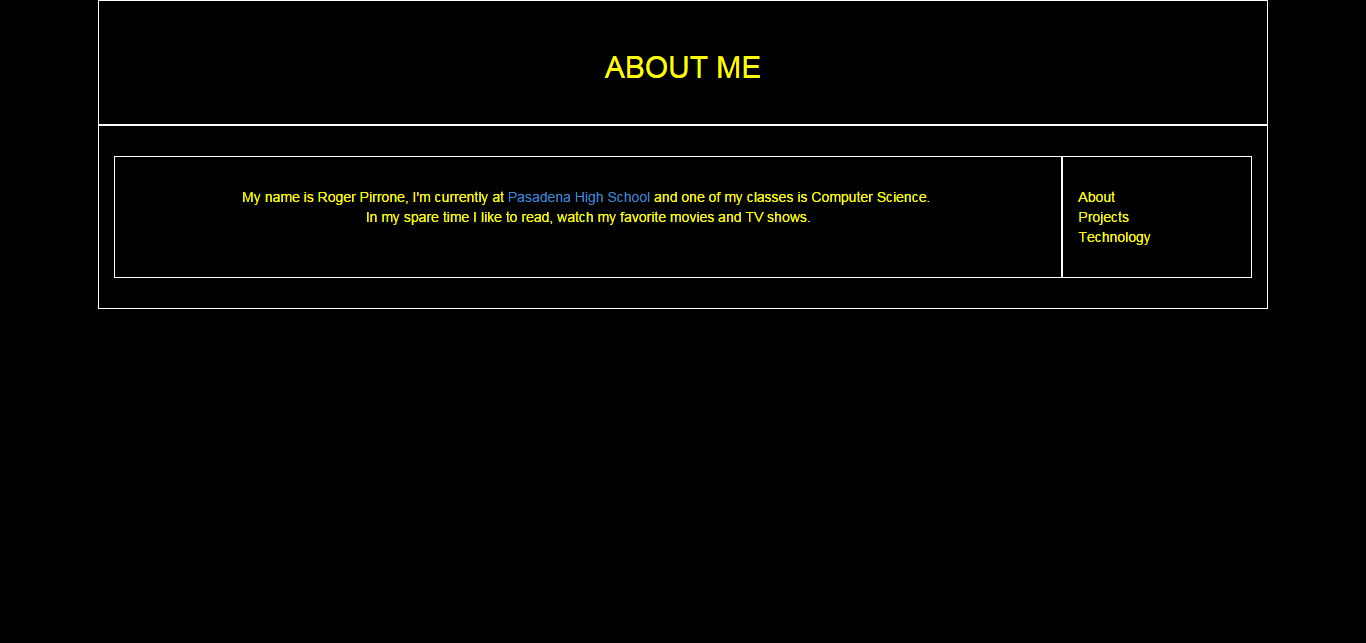
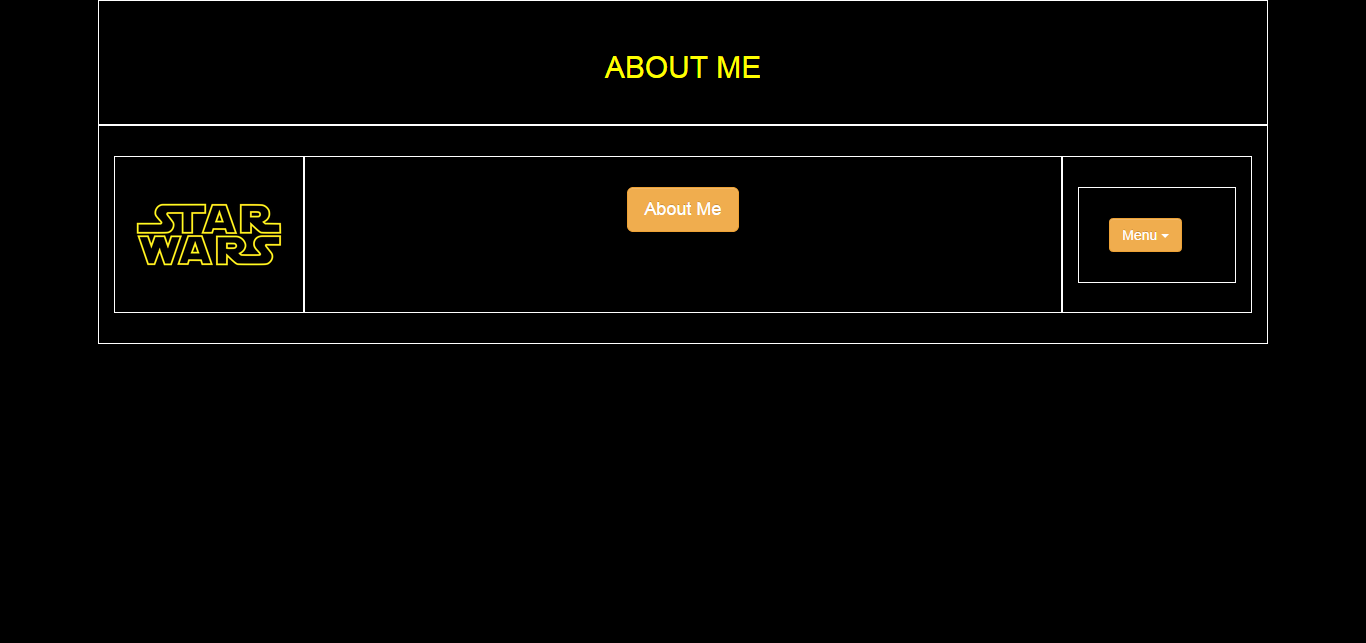
Cleaned up code, added comments, added project descriptions did some advanced features and fixed colors of modal.

diff --git a/public_html/index.html b/public_html/index.html
@@ -1,5 +1,6 @@
 <html>
     <head>
+        <!--The following code in <head> calls upon the css bootstrap and custom-style files.-->
         <title>Portfolio-Home</title>
         <meta charset="UTF-8">
         <meta name="viewport" content="width=device-width, initial-scale=1.0">
@@ -7,53 +8,61 @@
         <link type="text/css" rel="stylesheet" href="css/bootstrap.css">
         <link type="text/css" rel="stylesheet" href="css/custom-style.css">
     </head>
-    <body>    
+    <body>
+        <!--This code calls upon the container which is part of bootstrap.-->
         <div class="container">
             <h2>ABOUT ME</h2>
-        </div>    
+        </div>
+            <!--This code calls upon the container which is part of bootstrap.-->
             <div class="container">
                 <div class="col-xs-2">
-                    <img class="img-responsive" src="http://upload.wikimedia.org/wikipedia/commons/thumb/6/6c/Star_Wars_Logo.svg/1280px-Star_Wars_Logo.svg.png">                </div>
+                    <!--This makes the image responsive to the size of the browser window.-->
+                    <img class="img-responsive"
+                        src="http://upload.wikimedia.org/wikipedia/commons/thumb/6/6c/Star_Wars_Logo.svg/1280px-Star_Wars_Logo.svg.png"></div>
                 <div id="About" class="col-xs-8">
+                    <!--This code is for creating the modal.-->
                     <button class="btn btn-warning btn-lg" data-toggle="modal" data-target="#myModal">
                         About Me
                     </button>
                     <div class="modal fade" id="myModal" tabindex="-1" role="dialog" aria-labelledby="myModalLabel" aria-hidden="true">
                       <div class="modal-dialog">
                         <div class="modal-content">
-                          <div class="modal-header">
-                            <button type="button" class="close" data-dismiss="modal"><span aria-hidden="true">&times;</span><span class="sr-only">Close</span></button>
-                            <h4 class="modal-title" id="myModalLabel">About Me</h4>
-                          </div>
-                          <div class="modal-body">
-                            <p>My name is Roger Pirrone, I'm currently at
-                            <a href='http://phs.pasadenausd.org/'>Pasadena High School</a>
-                            and one of my classes is Computer Science.
-                            <br>In my spare time I like to read, watch my favorite movies
-                            and TV shows.</p>
-                          </div>
-                            <div class="modal-footer">
-                            <button type="button" class="btn btn-warning" data-dismiss="modal">Close</button>
+                            <div class="modal-header">
+                                <button type="button" class="close" data-dismiss="modal">
+                                <span aria-hidden="true">&times;</span><span class="sr-only">Close</span></button>
+                                <h4 class="modal-title" id="myModalLabel">About Me</h4>
+                                </div>
+                            <div class="modal-body">
+                                <p>My name is Roger Pirrone, I'm currently at
+                                <a href='http://phs.pasadenausd.org/'>Pasadena High School</a>
+                                and one of my classes is Computer Science.
+                                <br>In my spare time I like to read, watch my favorite movies
+                                and TV shows, and play Lego video games.</p>
                             </div>
+                                <div class="modal-footer">
+                                <button type="button" class="btn btn-warning" data-dismiss="modal">Close</button>
+                                </div>
                         </div>
                       </div>
                     </div>
-                </div>    
+                </div>
+                <!--The following code creates the menu and an active link on the About option.-->
                 <div id="AboutNav" class="col-xs-2">
-                <div class="dropdown">
-                <button class="btn btn-warning" dropdown-toggle" type="buttton" class="btn btn-primary"id="dropdownMenu1" data-toggle="dropdown">
-                    Menu
-                    <span class="caret"></span>
-                </button>
-                    <ul class="dropdown-menu" role="menu" aria-labelledby="dropdownMenu1">
+                    <div class="dropdown">
+                        <button class="btn btn-warning" type="button" id="dropdownMenu1" data-toggle="dropdown">
+                        Menu
+                        <span class="caret"></span>
+                        </button>
+                        <ul class="dropdown-menu" role="menu" aria-labelledby="dropdownMenu1">
                         <li class="active" role="presentation"><a role="menuitem" tabindex="-1" href="index.html">About</a></li>
                         <li role="presentation"><a role="menuitem" tabindex="-1" href="projects.html">Projects</a></li>
                         <li role="presentation"><a role="menuitem" tabindex="-1" href="technology.html">Technology</a></li>
-                    </ul>
-                </div>
+                        </ul>
                     </div>
-            </div>    
-             <script src="https://ajax.googleapis.com/ajax/libs/jquery/1.11.0/jquery.min.js"></script>
-       <script src="js/bootstrap.min.js"></script>
+                </div>
+            </div>
+        <!--The scripts allow certain bootstrap features to work properly.-->
+        <script src="https://ajax.googleapis.com/ajax/libs/jquery/1.11.0/jquery.min.js"></script>
+        <script src="js/bootstrap.min.js"></script>
     </body>
 </html>

diff --git a/public_html/technology.html b/public_html/technology.html
@@ -1,5 +1,6 @@
 <html>
     <head>
+        <!--The following code in <head> calls upon the css bootstrap and custom-style files.-->
         <title>Technology</title>
         <meta charset="UTF-8">
         <meta name="viewport" content="width=device-width, initial-scale=1.0">
@@ -8,47 +9,58 @@
         <link type="text/css" rel="stylesheet" href="css/custom-style.css">
     </head>
     <body>
+        <!--This code calls upon the container which is part of bootstrap.-->
         <div class="container">
             <h2>TECHNOLOGY</h2>
-        </div>    
+        </div>
+            <!--This code calls upon the container which is part of bootstrap.-->
             <div class="container">
                 <div class="col-xs-10">
+                    <!--This code makes "HTML" link you to a website with basic
+                        and advanced tutorials.-->
                     <h1><a href='http://www.w3schools.com/html/'>HTML</a></h1>
                     <p>HTML stands for "Hyper-Text Markup Language." 
-                    This is the language that Web pages are written in. 
-                    <br>Also known as hypertext documents, Web pages must
-                    conform to the rules of HTML 
-                    in order to be displayed correctly in a Web browser. 
-                    <br>The HTML syntax is based on a list of tags that describe 
-                    the page's format and what is displayed on the Web page.</p>
-                    
+                        This is the language that Web pages are written in. 
+                        <br>Also known as hypertext documents, Web pages must
+                        conform to the rules of HTML 
+                        in order to be displayed correctly in a Web browser. 
+                        <br>The HTML syntax is based on a list of tags that describe 
+                        the page's format and what is displayed on the Web page.</p>
+                    <!--This code makes "CSS" link you to a website with basic
+                        and advanced tutorials.-->
                     <h1><a href='http://www.w3schools.com/css/'>CSS</a></h1>
                     <p>Cascading Style Sheets (CSS) is a style sheet language
                         used for describing the look and formatting of a document
                         written in a markup language.</p>
-                    
+                    <!--This code makes "BOOTSTRAP" link you to their official website.-->
                     <h1><a href="http://getbootstrap.com/">BOOTSTRAP</a></h1>
                     <p>Bootstrap is a free collection of tools for creating
                        websites and web applications. It contains HTML and
                        CSS-based design templates for typography, forms, buttons,
                        navigation and other interface components, as well as
                        optional <a href='Jhttp://www.w3schools.com/js/'>Javascript</a>
+                    <p><br>Here's a website that has very helpful tutorials on creating a website!
+                       <br>Click the picture to learn more.
+                    <p><a href="http://www.w3schools.com/">
+                       <img id='w3' src="images/w3-schools.jpg"></a>
                 </div>
+                <!--The following code creates the menu and an active link on the About option.-->
                 <div id="TechnologyNav" class="col-xs-2">
-                <div class="dropdown">
-                <button class="btn btn-warning" type="buttton" id="dropdownMenu1" data-toggle="dropdown">
+                    <div class="dropdown">
+                    <button class="btn btn-warning" type="button" id="dropdownMenu1" data-toggle="dropdown">
                     Menu
                     <span class="caret"></span>
-                </button>
+                    </button>
                     <ul class="dropdown-menu" role="menu" aria-labelledby="dropdownMenu1">
                         <li role="presentation"><a role="menuitem" tabindex="-1" href="index.html">About</a></li>
                         <li role="presentation"><a role="menuitem" tabindex="-1" href="projects.html">Projects</a></li>
                         <li class="active" role="presentation"><a role="menuitem" tabindex="-1" href="technology.html">Technology</a></li>
                     </ul>
                 </div>
-                    </div>
                 </div>
-             <script src="https://ajax.googleapis.com/ajax/libs/jquery/1.11.0/jquery.min.js"></script>
-       <script src="js/bootstrap.min.js"></script>
+                </div>
+        <!--The scripts allow certain bootstrap features to work properly.-->    
+        <script src="https://ajax.googleapis.com/ajax/libs/jquery/1.11.0/jquery.min.js"></script>
+        <script src="js/bootstrap.min.js"></script>
     </body>
 </html>

diff --git a/public_html/projects.html b/public_html/projects.html
@@ -1,5 +1,6 @@
 <html>
     <head>
+        <!--The following code in <head> calls upon the css bootstrap and custom-style files.-->
         <title>Projects</title>
         <meta charset="UTF-8">
         <meta name="viewport" content="width=device-width, initial-scale=1.0">
@@ -8,41 +9,54 @@
         <link type="text/css" rel="stylesheet" href="css/custom-style.css">
     </head>
     <body>
+        <!--This code calls upon the container which is part of bootstrap.-->
         <div class="container">
             <h2>PROJECTS</h2>
         </div>    
+            <!--This code calls upon the container which is part of bootstrap.-->
             <div class="container">
                 <div class="col-xs-10">
-                    <p>This is my second portfolio website. I am using HTML, CSS,
-                       and Bootstrap's grid system. 
-                    <br>This webstie includes an <a href='index.html'>About</a>
-                    page, a <a href="projects.html">Projects</a> page, 
-                    and a <a href="technology.html">Technology</a> page.</p>
-                    <br><p>Here is a screenshot of my current About Me page and a
-                       screenshot of my first About Me page on my first Portfolio
-                       Website.</p>       
+                    <p>This is my second portfolio website. I am using
+                        <a href='http://www.w3schools.com/html/'>HTML</a>,
+                       <a href='http://www.w3schools.com/css/'>CSS</a>,
+                       and the <a href="http://getbootstrap.com/">Bootstrap</a>
+                       grid system. 
+                        <br>This webstie includes an <a href='index.html'>About</a>
+                        page, a <a href="projects.html">Projects</a> page, 
+                        and a <a href="technology.html">Technology</a> page.</p>
+                    <p><br>Here is a screenshot of my current About Me page and a
+                        screenshot of my first About Me page on my first Portfolio
+                    Website.</p>
+                    <!--This code calls upon bootstrap's jumbotron for the portfolio images.-->
                     <div class="jumbotron">
                       <h1>Portfolio Screenshots</h1>
+                      <p><br>My first portfolio website used basic elements of HTML and CSS.</p>
                       <p><img src="images/portfolio-v1-screenshot.png">
-                         <img src="images/portfolio-v2-screenshot.png"></p>
+                      </p>   
+                      <p><br>My second portfolio website uses more advanced and
+                         responsive features. It was built using HTML, CSS, and Bootstrap.
+                      </p>   
+                      <p><img src="images/portfolio-v2-screenshot.png">
+                      </p>
                     </div>
-                </div>        
+                </div>
+                <!--The following code creates the menu and an active link on the About option.-->
                 <div id="ProjectNav" class="col-xs-2">
                 <div class="dropdown">
-                <button class="btn btn-warning" type="buttton" id="dropdownMenu1" data-toggle="dropdown">
+                    <button class="btn btn-warning" type="button" id="dropdownMenu1" data-toggle="dropdown">
                     Menu
                     <span class="caret"></span>
-                </button>
+                    </button>
                     <ul class="dropdown-menu" role="menu" aria-labelledby="dropdownMenu1">
                         <li role="presentation"><a role="menuitem" tabindex="-1" href="index.html">About</a></li>
                         <li class="active" role="presentation"><a role="menuitem" tabindex="-1" href="projects.html">Projects</a></li>
                         <li role="presentation"><a role="menuitem" tabindex="-1" href="technology.html">Technology</a></li>
                     </ul>
                 </div>
-                    </div>
                 </div>
-        </div>
-             <script src="https://ajax.googleapis.com/ajax/libs/jquery/1.11.0/jquery.min.js"></script>
-       <script src="js/bootstrap.min.js"></script>
+                </div>
+        <!--The scripts allow certain bootstrap features to work properly.-->    
+        <script src="https://ajax.googleapis.com/ajax/libs/jquery/1.11.0/jquery.min.js"></script>
+        <script src="js/bootstrap.min.js"></script>
     </body>
 </html>

diff --git a/public_html/css/custom-style.css b/public_html/css/custom-style.css
@@ -2,14 +2,13 @@ body {
     background-color: black;
     /*--This changes the font for the entire website to Helvetica.*/
     font-family: Helvetica;
+    /*--This makes the font for the entire website yellow.*/
     color: yellow;
 }
 
-nav a{
-    color: yellow;    
-}
 
 div{
+    /*This CSS code in the div sets how our grid system will look, how wide and the color.*/
     border-style: solid;
     border-width: 1px;
     border-color: white;
@@ -29,36 +28,66 @@ p{
 }
 
 img {
+    /*This sets all images width to 350px and the height to auto correct
+    itself to match that width*/
     width: 350px; 
-    height: auto;
-}#About{
+    height: auto;  
+}
+
+#About{
+    /*This corrects the grid system to line up with the other container.*/
     height: 157px;
+    /*This code makes the "About Me" modal be in the center.*/
     text-align: center;
 }
 #AboutNav{
+    /*This corrects the grid system to line up with the other container.*/
     height: 157px;
 }
 
 #ProjectNav{
-    height: 569px;
+    /*This corrects the grid system to line up with the other container.*/
+    height: 929px;
 }
 
 #TechnologyNav{
-    height: 399px;
+    /*This corrects the grid system to line up with the other container.*/
+    height: 679px;
+}
+
+#w3{
+    /*This id selector overrides the above img css code by calling specifically
+    on the w3 image.*/
+    width: 200px; 
+    height: auto;
 }
 
 .modal-header{
+    /*This makes the modal header have an off grey color.*/
     background-color: #282828;
 }
 
 .modal-body{
-    background-color: #282828
+    /*This makes the modal body have an off grey color.*/
+    background-color: #282828;
 }
 
 .modal-footer{
-    background-color: #282828
+    /*This makes the modal footer have an off grey color.*/
+    background-color: #282828;
+}
+
+.modal-dialog{
+    /*This makes the modal dialog have a black color.*/
+    background-color: black;
+}
+
+.modal-content{
+    /*This makes the modal content have an off grey color.*/
+    background-color: #282828;
 }
 
 .jumbotron{
-    background-color: #282828
+    /*This makes the jumbotron have an off grey color.*/
+    background-color: #282828;
 }
